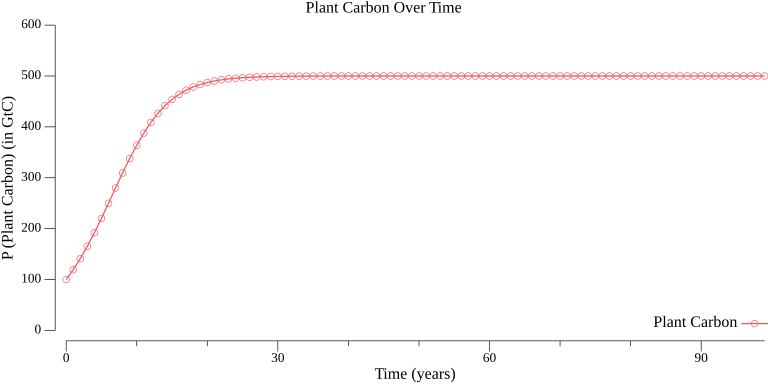
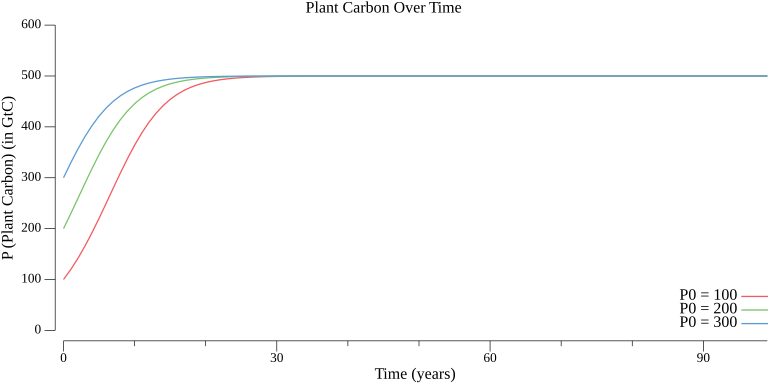
add multiple P0 lines

diff --git a/assignment2/problem3/main.go b/assignment2/problem3/main.go
@@ -10,14 +10,24 @@ import (
 )
 
 // Function to plot the graph
-func plotGraph(data []float64) {
-	pts := make(plotter.XYs, len(data))
-	for i := range pts {
-		pts[i].X = float64(i)
-		pts[i].Y = data[i]
-	}
-
+func plotGraph(dataSets [][]float64, graphName string) {
 	p := plot.New()
+
+	for idx, data := range dataSets {
+		pts := make(plotter.XYs, len(data))
+		for i := range pts {
+			pts[i].X = float64(i)
+			pts[i].Y = data[i]
+		}
+
+		line, err := plotter.NewLine(pts)
+		if err != nil {
+			panic(err)
+		}
+		line.Color = plotutil.Color(idx)
+		p.Add(line)
+		p.Legend.Add(fmt.Sprintf("P0 = %d", (idx+1)*100), line)
+	}
 
 	p.Title.Text = "Plant Carbon Over Time"
 	p.X.Label.Text = "Time (years)"
@@ -37,16 +47,21 @@ func plotGraph(data []float64) {
 		{Value: 600, Label: "600"},
 	})
 
-	err := plotutil.AddLinePoints(p, "Plant Carbon", pts)
-	if err != nil {
+	if err := p.Save(8*vg.Inch, 4*vg.Inch, graphName); err != nil {
 		panic(err)
 	}
 
-	if err := p.Save(8*vg.Inch, 4*vg.Inch, "plant_carbon.png"); err != nil {
-		panic(err)
-	}
+	fmt.Printf("\nPlot saved to '%s'\n", graphName)
+}
 
-	fmt.Println("Plot saved to 'plant_carbon.png'")
+func calculatePoints(g float64, K float64, L float64, initialCarbonStock float64, numPoints int) []float64 {
+	P := make([]float64, numPoints)
+	P[0] = initialCarbonStock
+
+	for i := 1; i < numPoints; i++ {
+		P[i] = P[i-1] + g*(1-P[i-1]/K-1/L)*P[i-1]
+	}
+	return P
 }
 
 func main() {
@@ -55,12 +70,9 @@ func main() {
 	L := 3.0
 	numPoints := 100
 
-	P := make([]float64, numPoints)
-	P[0] = 100
+	P1 := calculatePoints(g, K, L, 100, numPoints)
+	P2 := calculatePoints(g, K, L, 200, numPoints)
+	P3 := calculatePoints(g, K, L, 300, numPoints)
 
-	for i := 1; i < numPoints; i++ {
-		P[i] = P[i-1] + g*(1-P[i-1]/K-1/L)*P[i-1]
-	}
-
-	plotGraph(P)
+	plotGraph([][]float64{P1, P2, P3}, "plant_carbon.png")
 }
